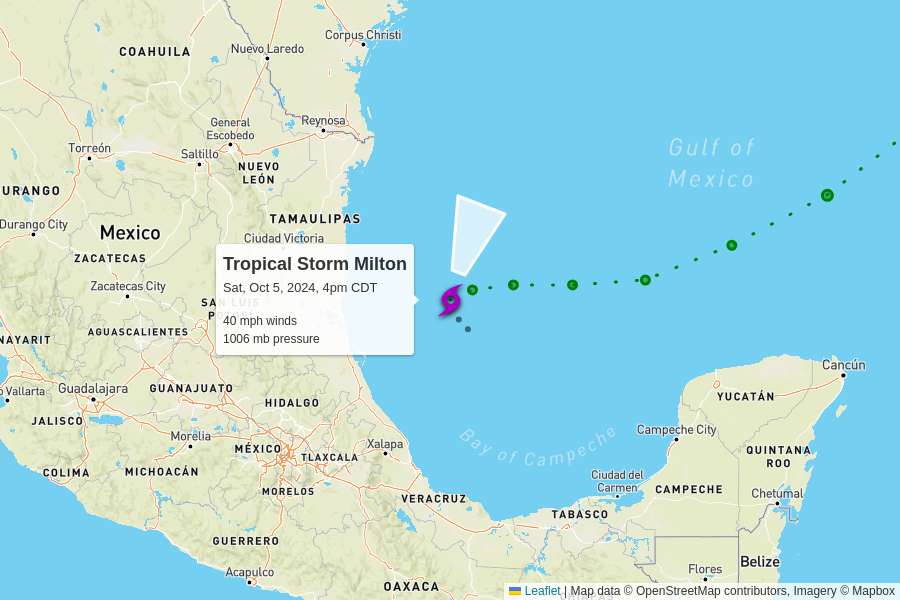
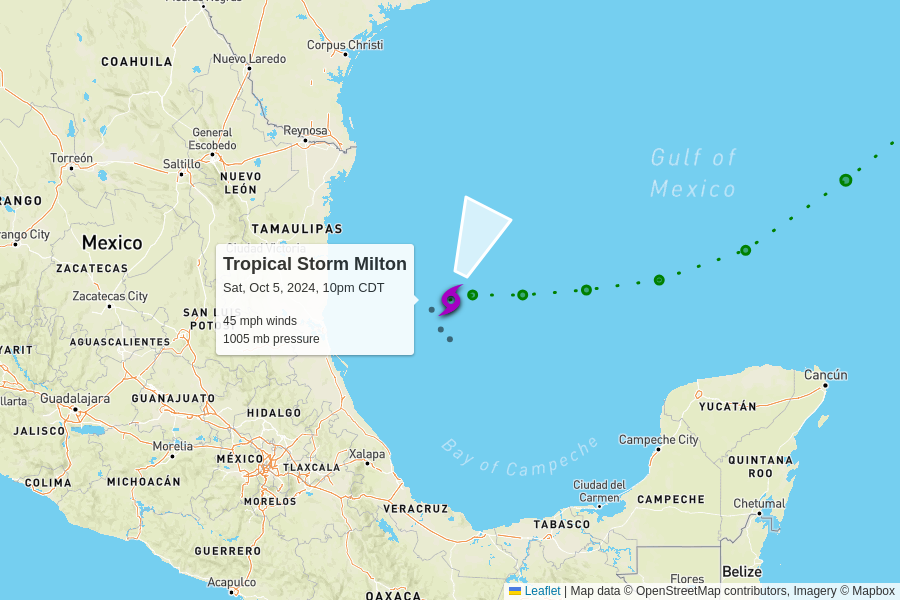
automatic update

diff --git a/docs/index.html b/docs/index.html
@@ -101,6 +101,50 @@
 
     <table>
       <tr>
+        <td colspan="6" class="storm category-0" >
+          <h2>
+            Tropical Storm Milton
+            <p class="updated">last updated <span data-time>2024-10-06T03:00:00.000Z</span></p>
+          </h2>
+        </td>
+      </tr>
+      
+      <tr>
+        <th class="spacer"></th>
+        <th>wind speed</th>
+        <th>central pressure</th>
+        <th>movement</th>
+        <th>data (CSV)</th>
+        <th>National Hurricane Center</th>
+      </tr>
+      <tr>
+        <td class="spacer"></td>
+        <td>45 mph<br>+5 mph since last update</td>
+        <td>1005 mb<br>-1 mb since last update</td>
+        <td>
+          5 mph to the north-northeast
+          <br/>
+          <span style="display: inline-block; font-size: 1.5em; transform: rotate(25deg);">↑</span>
+        </td>
+        <td><a href="https://raw.githubusercontent.com/mgwalker/atlantic-hurricanes/main/data/csv/AL142024.csv">AL142024.csv</a></td>
+        <td><a href="https://www.nhc.noaa.gov/archive/2024/MILTON.shtml?">NHC advisories</a></td>
+      </tr>
+      <tr id="storm_AL142024" >
+        <td class="spacer">
+        <td colspan="5">
+          <figure>
+            <img src="AL142024.png">
+            <figcaption>
+              Map data &copy; <a href="https://www.openstreetmap.org/copyright">OpenStreetMap</a> contributors,
+              Imagery &copy; <a href="https://www.mapbox.com/">Mapbox</a> |
+              <a href="https://www.mapbox.com/map-feedback/" target="_blank">Improve this map</a>
+            </figcaption>
+          </figure>
+        </td>
+      </tr>
+      
+
+      <tr>
         <td colspan="6" class="storm category-3" >
           <h2>
             Hurricane Kirk - Category 3
@@ -178,50 +222,6 @@
         <td colspan="5">
           <figure>
             <img src="AL132024.png">
-            <figcaption>
-              Map data &copy; <a href="https://www.openstreetmap.org/copyright">OpenStreetMap</a> contributors,
-              Imagery &copy; <a href="https://www.mapbox.com/">Mapbox</a> |
-              <a href="https://www.mapbox.com/map-feedback/" target="_blank">Improve this map</a>
-            </figcaption>
-          </figure>
-        </td>
-      </tr>
-      
-
-      <tr>
-        <td colspan="6" class="storm category-0" >
-          <h2>
-            Tropical Storm Milton
-            <p class="updated">last updated <span data-time>2024-10-05T21:00:00.000Z</span></p>
-          </h2>
-        </td>
-      </tr>
-      
-      <tr>
-        <th class="spacer"></th>
-        <th>wind speed</th>
-        <th>central pressure</th>
-        <th>movement</th>
-        <th>data (CSV)</th>
-        <th>National Hurricane Center</th>
-      </tr>
-      <tr>
-        <td class="spacer"></td>
-        <td>40 mph<br>0 mph since last update</td>
-        <td>1006 mb<br>0 mb since last update</td>
-        <td>
-          3 mph to the north-northeast
-          <br/>
-          <span style="display: inline-block; font-size: 1.5em; transform: rotate(20deg);">↑</span>
-        </td>
-        <td><a href="https://raw.githubusercontent.com/mgwalker/atlantic-hurricanes/main/data/csv/AL142024.csv">AL142024.csv</a></td>
-        <td><a href="https://www.nhc.noaa.gov/archive/2024/MILTON.shtml?">NHC advisories</a></td>
-      </tr>
-      <tr id="storm_AL142024" >
-        <td class="spacer">
-        <td colspan="5">
-          <figure>
-            <img src="AL142024.png">
             <figcaption>
               Map data &copy; <a href="https://www.openstreetmap.org/copyright">OpenStreetMap</a> contributors,
               Imagery &copy; <a href="https://www.mapbox.com/">Mapbox</a> |
